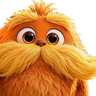
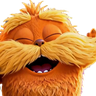
Flame: waitlist button lands on the form; smiling face on Meet Flame (#41)
The jump stopped ~140px short because the funnel reserves room for a
pinned topbar that doesn't stay pinned on this page. Target the heading
with a 40px margin so the whole form is in view. The homepage button
face is now Flame mid-laugh from the celebrate loop.

diff --git a/flame.html b/flame.html
@@ -10,7 +10,7 @@
   <meta name="description" content="Flame is CanopyChat's AI agent, with its own house in the clouds: a private cloud computer that keeps working after you close your laptop. Invite only: join the waitlist.">
   <link rel="icon" type="image/png" href="assets/app-icon.png">
   <link rel="apple-touch-icon" href="assets/apple-touch-icon.png">
-  <link rel="stylesheet" href="assets/styles.css?v=flame-3">
+  <link rel="stylesheet" href="assets/styles.css?v=flame-4">
 </head>
 <body class="flame-page founding-mobile-funnel">
   <!--
@@ -38,7 +38,7 @@
         <div class="flame-hero-copy-block">
           <h1 id="flame-title">Meet Flame. It gets things done while you’re away.</h1>
           <p class="flame-hero-copy">Flame is the AI agent inside CanopyChat, and it has its own house in the clouds: a private cloud computer that keeps working after you close your laptop. Tell it what you need, then check in from your phone whenever you like.</p>
-          <a class="founding-primary-action" href="#waitlist">
+          <a class="founding-primary-action" href="#waitlist-title">
             <span>Join the waitlist</span>
             <svg aria-hidden="true" viewBox="0 0 20 20"><path d="M10 2v14M4.5 10.5 10 16l5.5-5.5" fill="none" stroke="currentColor" stroke-linecap="round" stroke-linejoin="round" stroke-width="1.8"/></svg>
           </a>

diff --git a/index.html b/index.html
@@ -12,7 +12,7 @@
   <meta name="description" content="CanopyChat is a private, local-first chat app available on iPhone and Android, with on-device intelligence and user-controlled attachments.">
   <link rel="icon" type="image/png" href="assets/app-icon.png">
   <link rel="apple-touch-icon" href="assets/apple-touch-icon.png">
-  <link rel="stylesheet" href="assets/styles.css?v=flame-3">
+  <link rel="stylesheet" href="assets/styles.css?v=flame-4">
 </head>
 <body>
   <header class="shell nav">
@@ -66,7 +66,7 @@
         </div>
         <div class="actions">
           <div class="actions-row">
-            <a class="button secondary flame-cta" href="/flame"><img src="assets/flame-face-96.png" alt="" width="32" height="32"><span>Meet Flame</span></a>
+            <a class="button secondary flame-cta" href="/flame"><img src="assets/flame-face-96.png?v=2" alt="" width="32" height="32"><span>Meet Flame</span></a>
             <a class="button secondary" href="#how-it-works">How It Works</a>
           </div>
         </div>

diff --git a/android-beta.html b/android-beta.html
@@ -10,7 +10,7 @@
   <meta name="description" content="CanopyChat's private beta is opening six free Android spots through Google Play closed testing. Claim yours with your Google Play email.">
   <link rel="icon" type="image/png" href="assets/app-icon.png">
   <link rel="apple-touch-icon" href="assets/apple-touch-icon.png">
-  <link rel="stylesheet" href="assets/styles.css?v=flame-3">
+  <link rel="stylesheet" href="assets/styles.css?v=flame-4">
 </head>
 <body class="android-beta-page founding-mobile-funnel">
   <!--

diff --git a/founding.html b/founding.html
@@ -11,7 +11,7 @@
   <meta name="description" content="Help care for our planet while joining CanopyChat's private beta on iPhone and Android. Founding Members receive beta access.">
   <link rel="icon" type="image/png" href="assets/app-icon.png">
   <link rel="apple-touch-icon" href="assets/apple-touch-icon.png">
-  <link rel="stylesheet" href="assets/styles.css?v=flame-3">
+  <link rel="stylesheet" href="assets/styles.css?v=flame-4">
 </head>
 <body class="founding-page founding-mobile-funnel">
   <!--

diff --git a/assets/styles.css b/assets/styles.css
@@ -4034,6 +4034,16 @@ html:has(.founding-mobile-funnel) {
   color: var(--funnel-cream);
 }
 
+/* "Join the waitlist" lands on the heading with the whole form in view. The
+   topbar doesn't stay pinned on this page, so drop the funnel's header offset. */
+html:has(.flame-page) {
+  scroll-padding-top: 0;
+}
+
+.flame-page #waitlist-title {
+  scroll-margin-top: 40px;
+}
+
 /* Flame at the laptop, in the lime glow beside the form; wide screens only. */
 .flame-waitlist-typing {
   display: none;

diff --git a/signup.html b/signup.html
@@ -10,7 +10,7 @@
   <meta name="description" content="Create a CanopyChat account with just your email. No password.">
   <link rel="icon" type="image/png" href="assets/app-icon.png">
   <link rel="apple-touch-icon" href="assets/apple-touch-icon.png">
-  <link rel="stylesheet" href="assets/styles.css?v=flame-3">
+  <link rel="stylesheet" href="assets/styles.css?v=flame-4">
 </head>
 <body class="link-page founding-mobile-funnel">
   <header class="founding-topbar">

diff --git a/account.html b/account.html
@@ -11,7 +11,7 @@
   <meta name="description" content="Your CanopyChat account and the devices signed in to it.">
   <link rel="icon" type="image/png" href="assets/app-icon.png">
   <link rel="apple-touch-icon" href="assets/apple-touch-icon.png">
-  <link rel="stylesheet" href="assets/styles.css?v=flame-3">
+  <link rel="stylesheet" href="assets/styles.css?v=flame-4">
 </head>
 <body class="link-page founding-mobile-funnel">
   <header class="founding-topbar">

diff --git a/link.html b/link.html
@@ -11,7 +11,7 @@
   <meta name="description" content="Approve the computer you just started Canopy Code on.">
   <link rel="icon" type="image/png" href="assets/app-icon.png">
   <link rel="apple-touch-icon" href="assets/apple-touch-icon.png">
-  <link rel="stylesheet" href="assets/styles.css?v=flame-3">
+  <link rel="stylesheet" href="assets/styles.css?v=flame-4">
 </head>
 <body class="link-page founding-mobile-funnel">
   <header class="founding-topbar">

diff --git a/founding-access-preview.html b/founding-access-preview.html
@@ -4,7 +4,7 @@
   <meta charset="utf-8">
   <meta name="viewport" content="width=device-width, initial-scale=1, viewport-fit=cover">
   <title>Founding Member Access Preview — CanopyChat</title>
-  <link rel="stylesheet" href="assets/styles.css?v=flame-3">
+  <link rel="stylesheet" href="assets/styles.css?v=flame-4">
 </head>
 <body class="founding-page">
   <header class="shell nav">

diff --git a/founding-success.html b/founding-success.html
@@ -12,7 +12,7 @@
   <meta name="robots" content="noindex">
   <link rel="icon" type="image/png" href="assets/app-icon.png">
   <link rel="apple-touch-icon" href="assets/apple-touch-icon.png">
-    <link rel="stylesheet" href="assets/styles.css?v=flame-3">
+    <link rel="stylesheet" href="assets/styles.css?v=flame-4">
 </head>
 <body class="founding-page">
   <header class="shell nav">
